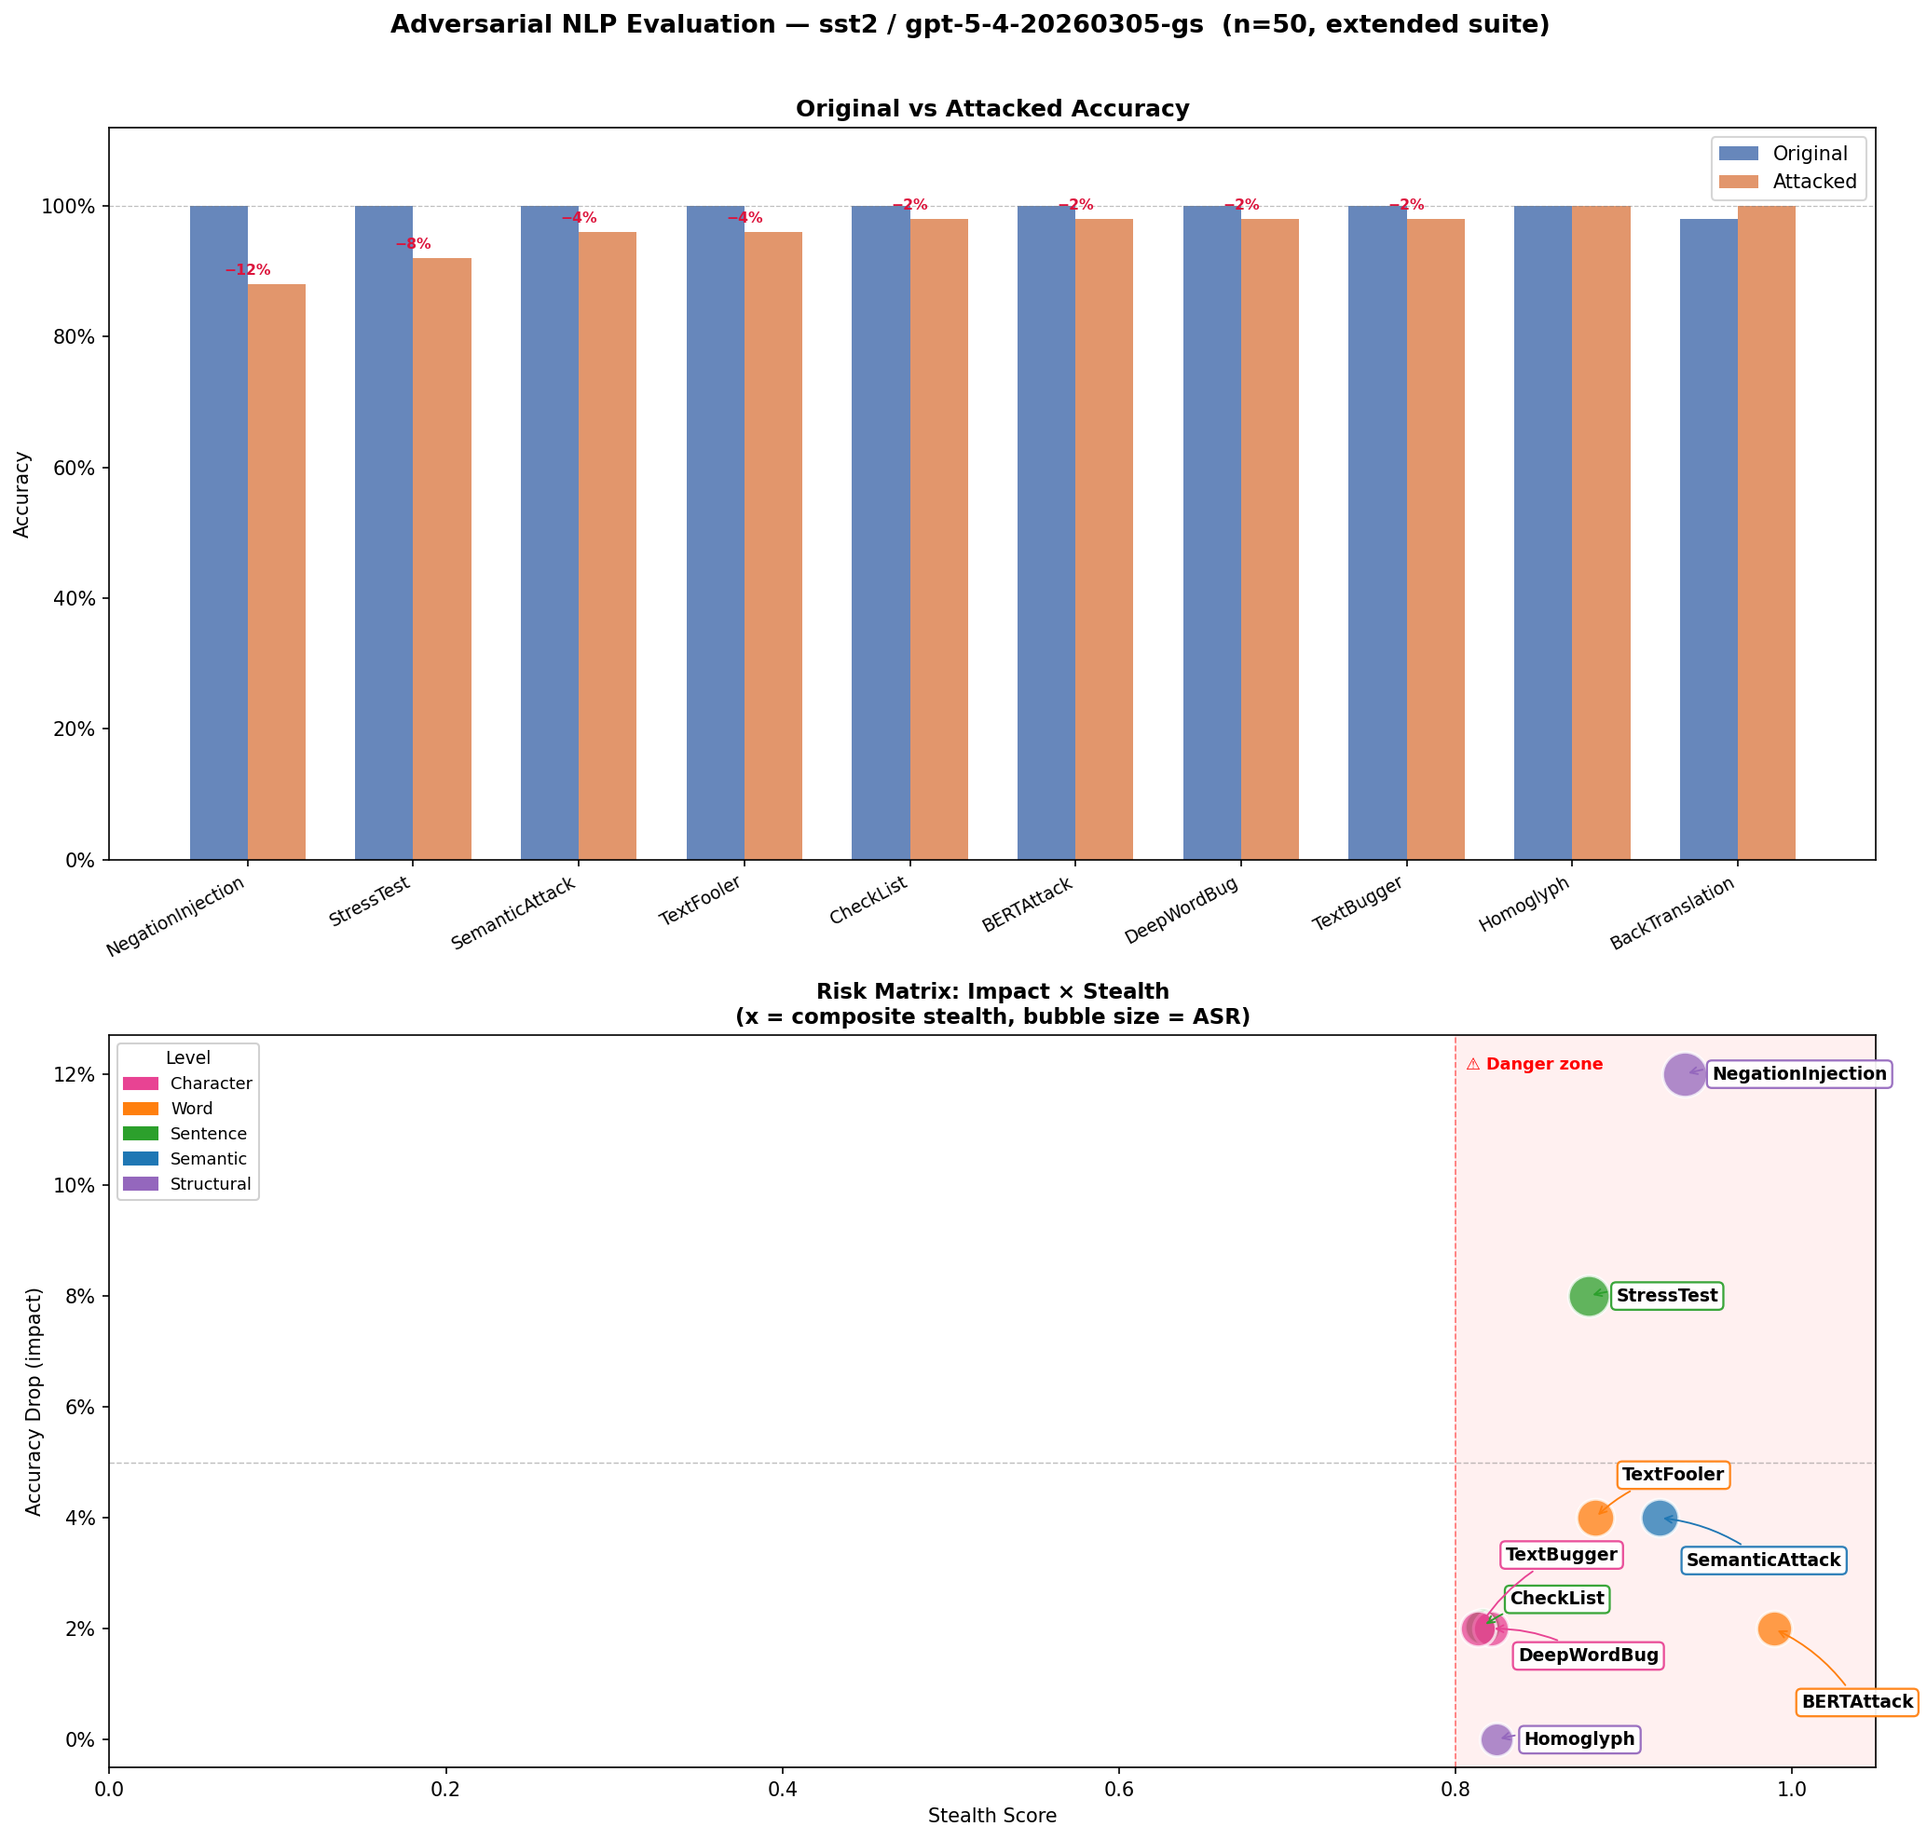
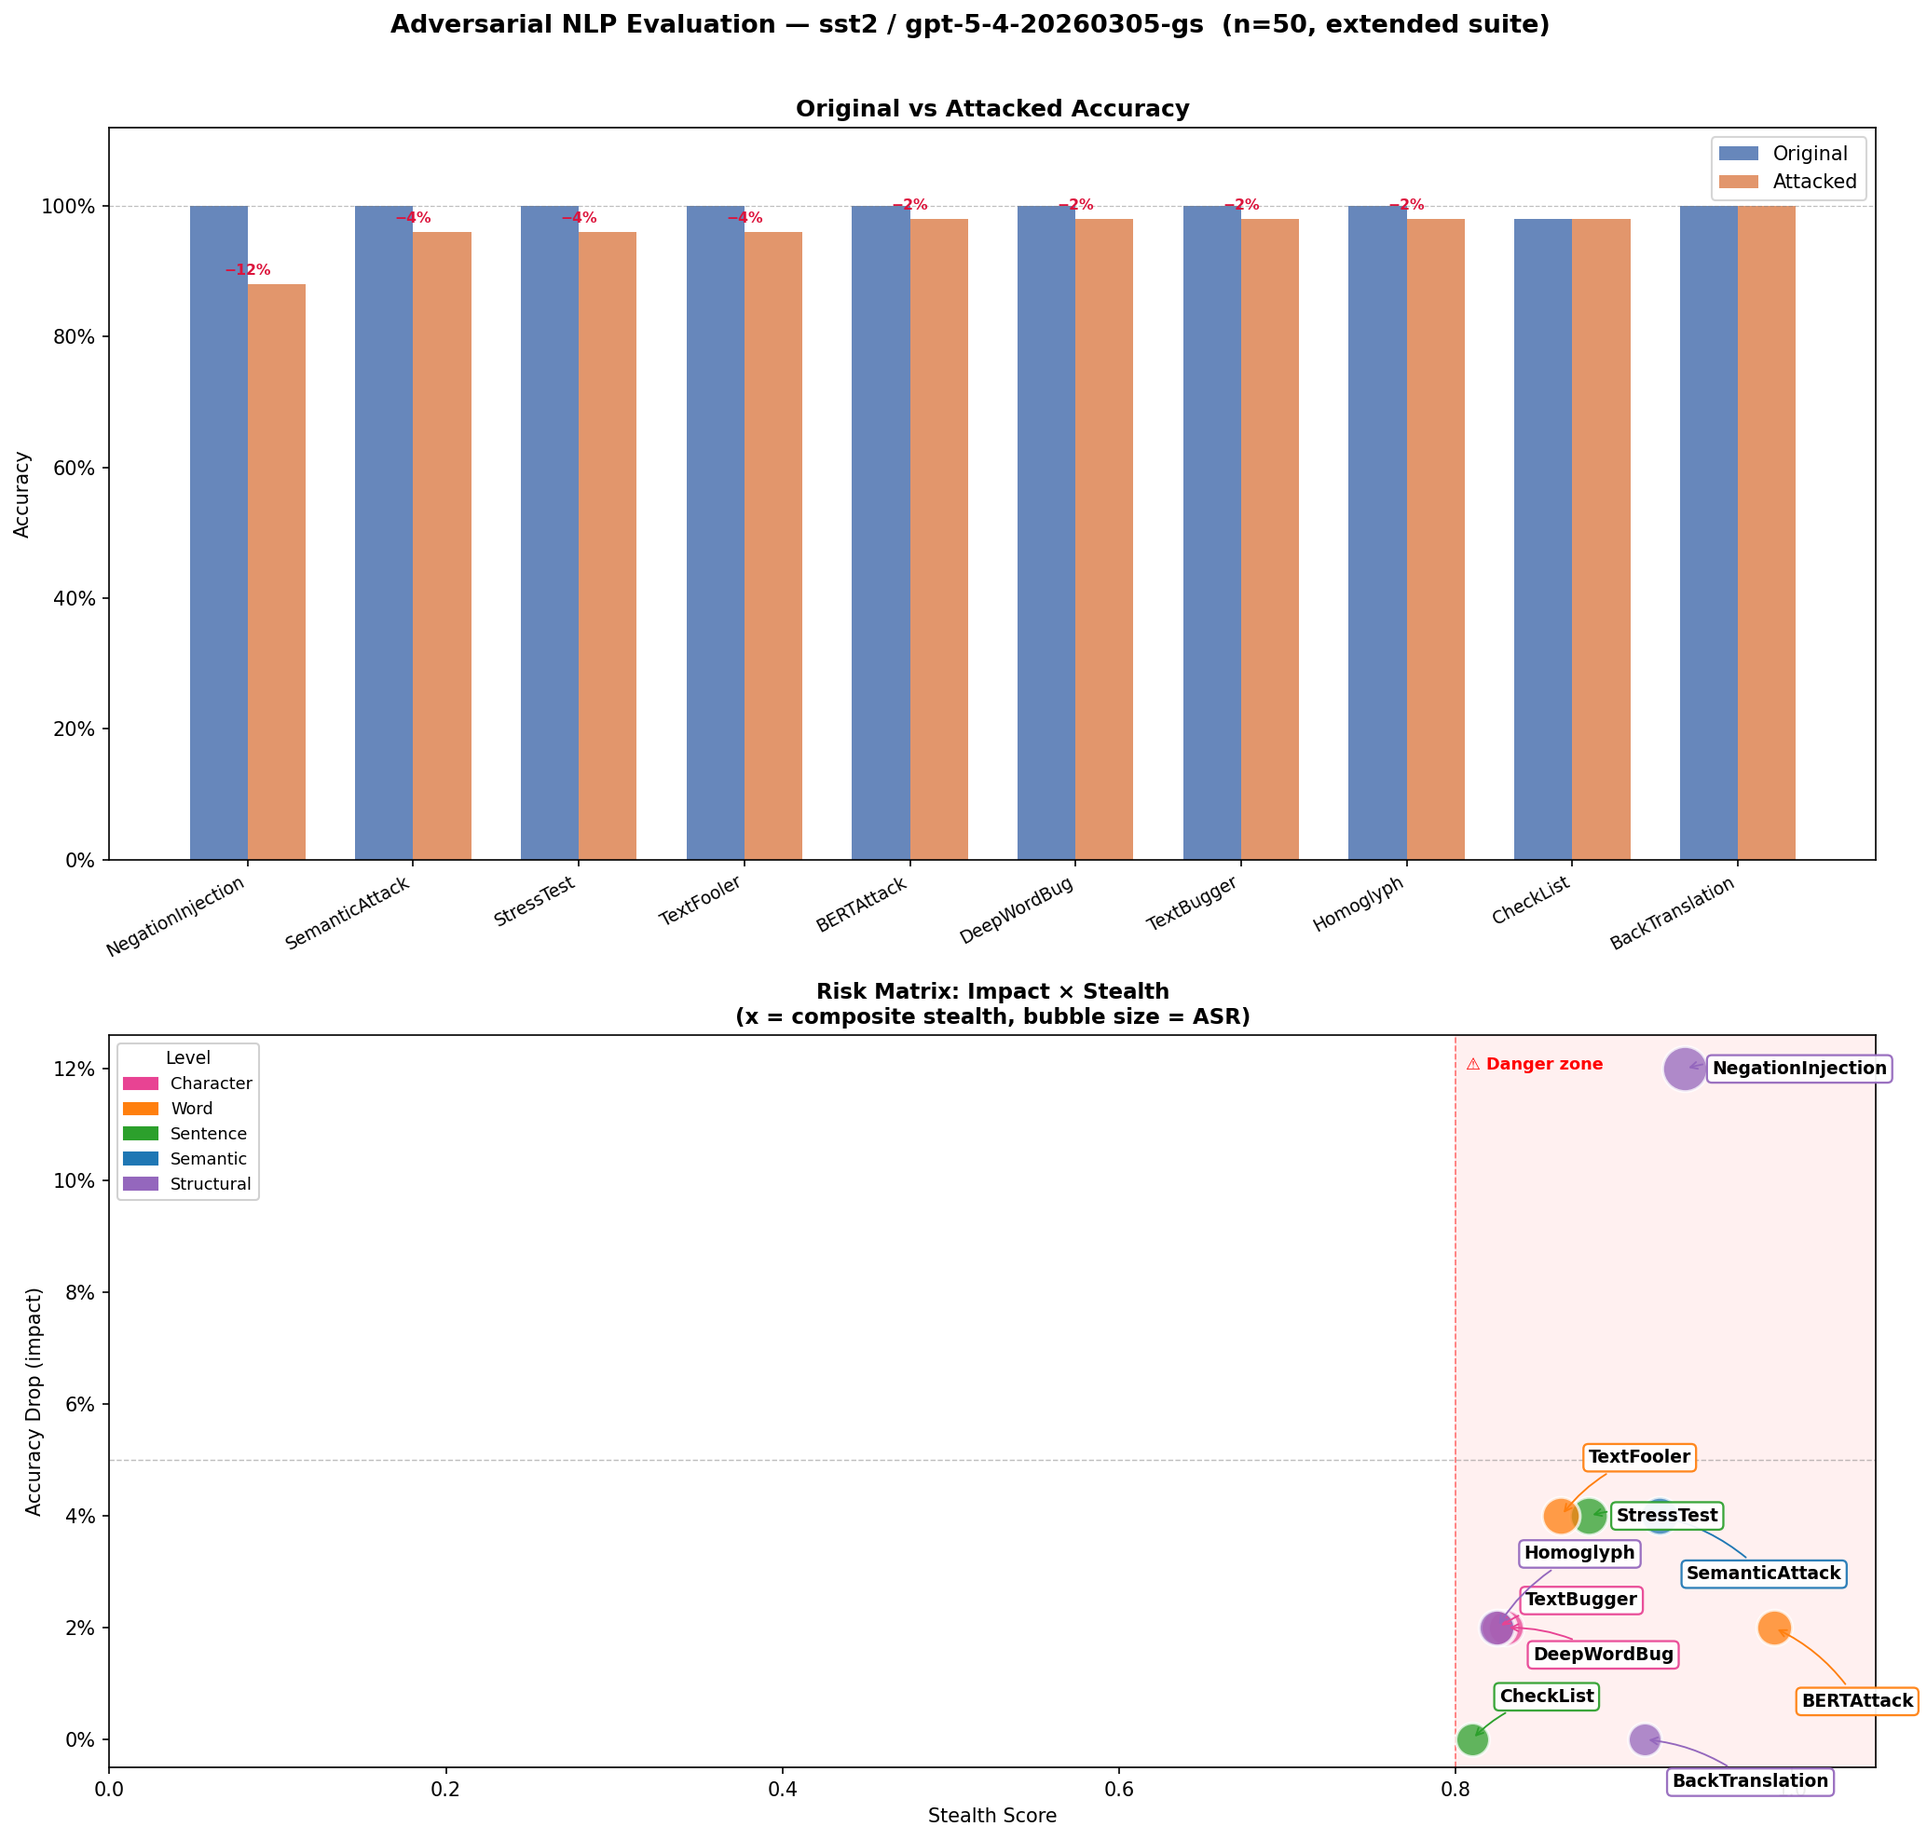
fix+improve: text_changed normalisation, heatmap tags, README refresh
evaluate/adversarial_eval.py
- Fix text_changed comparison: normalise whitespace (re.sub \s+ → single
  space + strip) before comparing original and attacked text.
  Previously a trailing space difference (BERTAttack stripping SST-2's
  trailing space) caused text_changed=True even with identical content,
  incorrectly keeping the case as HIGH priority instead of MEDIUM.

evaluate/regulatory.py
- Add _nist_tags(), _mitre_tags(), _owasp_tags(), _eu_tags() extractors
  that pull short regulatory references (§2.5, AML.T0043, LLM09, Art.15)
  from full citation strings.
- Rewrite render_regulatory_heatmap() cells to show structured tags
  instead of 38-char truncated prose — heatmap is now scannable at a
  glance. Better grid lines, proper row height, white-on-dark text for
  HIGH/MEDIUM rows, improved legend placement.

docs/images/nb01_risk_matrix.png
- Updated to latest run (StressTest 4%, Homoglyph 2%, CheckList 0%,
  BackTranslation 0%).

README.md
- Summary table updated to current run metrics.
- Key findings bullets refreshed: BERTAttack highest stealth (0.989),
  Homoglyph 1-flip on decision-boundary sentence, BackTranslation stable
  at 0%.

diff --git a/evaluate/regulatory.py b/evaluate/regulatory.py
@@ -428,20 +428,77 @@ def regulatory_report(
     return df
 
 
+# ── Short-tag extractors for the heatmap ─────────────────────────────────────
+
+def _nist_tags(text: str) -> str:
+    """Extract short NIST AI 600-1 category names from a full citation string."""
+    import re
+    tags = []
+    if re.search(r"Info(?:rmation)? Integrity|§2\.5", text, re.I):
+        tags.append("Info Integrity §2.5")
+    if re.search(r"Info(?:rmation)? Security|§2\.6", text, re.I):
+        tags.append("Info Security §2.6")
+    if re.search(r"Confabulation|§2\.3", text, re.I):
+        tags.append("Confabulation §2.3")
+    if re.search(r"Data (?:Privacy|Provenance)|§2\.1", text, re.I):
+        tags.append("Data Privacy §2.1")
+    if re.search(r"Harmful Bias|§2\.2", text, re.I):
+        tags.append("Harmful Bias §2.2")
+    if re.search(r"data (?:governance|quality)|Art\. 10", text, re.I):
+        tags.append("Data Governance")
+    return "\n".join(tags) if tags else text[:40]
+
+
+def _mitre_tags(text: str) -> str:
+    """Extract MITRE ATT&CK IDs from a full citation string."""
+    import re
+    ids = re.findall(r"AML\.T\d{4}", text)
+    seen: list[str] = []
+    for i in ids:
+        if i not in seen:
+            seen.append(i)
+    return "  ".join(seen) if seen else text[:30]
+
+
+def _owasp_tags(text: str) -> str:
+    """Extract OWASP LLM Top 10 IDs from a full citation string."""
+    import re
+    ids = re.findall(r"LLM\d{2}", text)
+    seen: list[str] = []
+    for i in ids:
+        if i not in seen:
+            seen.append(i)
+    return "  ".join(seen) if seen else text[:20]
+
+
+def _eu_tags(text: str) -> str:
+    """Extract EU AI Act article references from a full citation string."""
+    import re
+    arts = re.findall(r"Art\.\s*\d+(?:\s*§\d+)?", text)
+    seen: list[str] = []
+    for a in arts:
+        a = a.replace("  ", " ")
+        if a not in seen:
+            seen.append(a)
+    return "  ".join(seen) if seen else text[:30]
+
+
 # ── Regulatory heatmap ────────────────────────────────────────────────────────
 
 def render_regulatory_heatmap(
     reg_df: pd.DataFrame,
-    figsize: tuple = (13, None),
+    figsize: tuple = (14, None),
     save_path: str | None = None,
     dpi: int = 150,
 ):
     """
     Render a heatmap showing which regulatory frameworks each finding implicates.
 
-    Rows = findings (truncated); columns = NIST AI 600-1 / MITRE ATLAS /
+    Rows = findings; columns = NIST AI 600-1 / MITRE ATLAS /
     OWASP LLM Top 10 / EU AI Act.  Cell colour = severity (HIGH=red,
-    MEDIUM=orange, LOW=yellow, INFO=blue, — =light grey).
+    MEDIUM=orange, LOW=yellow, INFO=blue).  Cells show short regulatory
+    tags (§ references, ATT&CK IDs, article numbers) rather than truncated
+    prose, making the heatmap scannable at a glance.
 
     Parameters
     ----------
@@ -474,56 +531,82 @@ def render_regulatory_heatmap(
         "—":      "#E0E0E0",
     }
 
-    frameworks = ["nist_ai_600_1", "mitre_atlas", "owasp_llm", "eu_ai_act"]
-    labels     = ["NIST AI 600-1", "MITRE ATLAS", "OWASP LLM Top 10", "EU AI Act"]
+    frameworks  = ["nist_ai_600_1", "mitre_atlas", "owasp_llm", "eu_ai_act"]
+    col_headers = ["NIST AI 600-1", "MITRE ATLAS", "OWASP LLM\nTop 10", "EU AI Act"]
+    # Short-tag extractor per column
+    _tagfn = [_nist_tags, _mitre_tags, _owasp_tags, _eu_tags]
 
-    # Build row labels (attack name + severity badge)
+    # Build row labels — attack + metric snapshot
     rows = []
     for _, r in reg_df.iterrows():
         atk  = r.get("attacks", "?")
         sev  = r.get("severity", "—")
         drop = r.get("acc_drop", float("nan"))
-        drop_str = f" ({drop:+.0%})" if not (isinstance(drop, float) and np.isnan(drop)) else ""
-        rows.append(f"{atk}{drop_str}  [{sev}]")
+        asr  = r.get("asr",      float("nan"))
+        if isinstance(drop, float) and np.isnan(drop):
+            metric = ""
+        else:
+            metric = f"  Δacc {drop:+.0%}"
+            if not (isinstance(asr, float) and np.isnan(asr)) and asr > 0:
+                metric += f"  ASR {asr:.0%}"
+        rows.append(f"{atk}{metric}  [{sev}]")
 
-    n_rows = len(rows)
-    height = figsize[1] if figsize[1] else max(3, n_rows * 0.65 + 1.5)
+    n_rows  = len(rows)
+    row_h   = 0.90           # cell height in data units
+    col_w   = 1.0
+    height  = figsize[1] if figsize[1] else max(4, n_rows * row_h * 1.2 + 2.0)
     fig, ax = plt.subplots(figsize=(figsize[0], height))
 
-    for col_i, col in enumerate(frameworks):
+    for col_i, (col, tagfn) in enumerate(zip(frameworks, _tagfn)):
         for row_i, (_, r) in enumerate(reg_df.iterrows()):
             sev  = r.get("severity", "—")
-            text = r.get(col, "")
-            has_content = bool(text and str(text).strip() and str(text) != "—")
-            cell_color = _sev_color.get(sev, "#E0E0E0") if has_content else _sev_color["—"]
+            text = str(r.get(col, ""))
+            has_content = bool(text.strip() and text != "—" and text != "nan")
+            cell_color  = _sev_color.get(sev, "#E0E0E0") if has_content else "#F5F5F5"
+            text_color  = "white" if sev in ("HIGH", "MEDIUM") else "#222222"
 
+            y0 = n_rows - row_i - row_h
             rect = plt.Rectangle(
-                (col_i, n_rows - row_i - 1), 1, 1,
-                linewidth=0.5, edgecolor="white",
-                facecolor=cell_color, alpha=0.85,
+                (col_i * col_w + 0.05, y0),
+                col_w - 0.10, row_h - 0.05,
+                linewidth=0, edgecolor="none",
+                facecolor=cell_color, alpha=0.90, zorder=2,
             )
             ax.add_patch(rect)
 
-            # Abbreviated cell text
-            snippet = str(text)[:38] + "…" if len(str(text)) > 38 else str(text)
-            ax.text(
-                col_i + 0.5, n_rows - row_i - 0.5, snippet,
-                ha="center", va="center", fontsize=6.5,
-                wrap=True, color="white" if sev in ("HIGH", "MEDIUM") else "#333333",
-            )
+            # Extract short tags for this cell
+            tag_text = tagfn(text) if has_content else ""
+            if tag_text:
+                ax.text(
+                    col_i * col_w + col_w / 2,
+                    y0 + (row_h - 0.05) / 2,
+                    tag_text,
+                    ha="center", va="center",
+                    fontsize=7.5, fontweight="semibold",
+                    color=text_color, zorder=3,
+                    linespacing=1.4,
+                )
+
+    # Grid lines between rows
+    for i in range(n_rows + 1):
+        ax.axhline(n_rows - i, color="#CCCCCC", linewidth=0.4, zorder=1)
+    for j in range(len(frameworks) + 1):
+        ax.axvline(j * col_w, color="#CCCCCC", linewidth=0.4, zorder=1)
 
     # Axes formatting
-    ax.set_xlim(0, len(frameworks))
+    ax.set_xlim(0, len(frameworks) * col_w)
     ax.set_ylim(0, n_rows)
-    ax.set_xticks([i + 0.5 for i in range(len(frameworks))])
-    ax.set_xticklabels(labels, fontsize=9, fontweight="bold")
-    ax.set_yticks([n_rows - i - 0.5 for i in range(n_rows)])
-    ax.set_yticklabels(rows, fontsize=8)
-    ax.tick_params(axis="x", top=True, labeltop=True, bottom=False, labelbottom=False)
-    ax.tick_params(axis="y", left=True, right=False)
+    ax.set_xticks([i * col_w + col_w / 2 for i in range(len(frameworks))])
+    ax.set_xticklabels(col_headers, fontsize=10, fontweight="bold", linespacing=1.3)
+    ax.set_yticks([n_rows - i - row_h / 2 for i in range(n_rows)])
+    ax.set_yticklabels(rows, fontsize=8.5)
+    ax.tick_params(axis="x", top=True, labeltop=True, bottom=False, labelbottom=False,
+                   length=0, pad=6)
+    ax.tick_params(axis="y", left=True, right=False, length=0, pad=6)
+    ax.spines[:].set_visible(False)
     ax.set_title(
         "Regulatory Impact Heatmap — Findings from This Run",
-        fontsize=11, fontweight="bold", pad=14,
+        fontsize=12, fontweight="bold", pad=18,
     )
 
     legend_patches = [

diff --git a/evaluate/adversarial_eval.py b/evaluate/adversarial_eval.py
@@ -106,7 +106,13 @@ def run_all_attacks(
                 attacked = text
                 atk_pred = "error"
 
-            text_changed = (attacked != text)
+            # Normalise whitespace before comparing so that trailing-space
+            # differences (e.g. BERTAttack stripping a trailing space from
+            # SST-2's pre-tokenised text) are not counted as text changes.
+            def _norm(s: str) -> str:
+                import re
+                return re.sub(r"\s+", " ", s).strip()
+            text_changed = (_norm(attacked) != _norm(text))
 
             # ── semantic similarity (optional) ─────────────────────────────
             sem_sim: float | None = None

diff --git a/README.md b/README.md
@@ -122,21 +122,22 @@ Results from Notebook 01 — **10 adversarial attacks** evaluated on 50 SST-2 sa
 | Attack | Level | Orig Acc | Attacked Acc | Acc Drop | ASR | Stealth | Risk Score |
 |---|---|---|---|---|---|---|---|
 | **NegationInjection** | structural | 100% | 88% | +12% | 12% | 0.936 | 0.1123 |
-| **StressTest** | sentence | 100% | 92% | +8% | 8% | 0.879 | 0.0703 |
 | **SemanticAttack** | semantic | 100% | 96% | +4% | 4% | 0.921 | 0.0368 |
-| **TextFooler** | word | 100% | 96% | +4% | 4% | 0.883 | 0.0353 |
+| **StressTest** | sentence | 100% | 96% | +4% | 4% | 0.879 | 0.0352 |
+| **TextFooler** | word | 100% | 96% | +4% | 4% | 0.863 | 0.0345 |
 | **BERTAttack** | word | 100% | 98% | +2% | 2% | 0.989 | 0.0198 |
-| **CheckList** | sentence | 100% | 98% | +2% | 2% | 0.816 | 0.0167 |
-| **DeepWordBug** | character | 100% | 98% | +2% | 2% | 0.821 | 0.0164 |
-| **TextBugger** | character | 100% | 98% | +2% | 2% | 0.814 | 0.0163 |
-| **Homoglyph** | structural | 100% | 100% | +0% | 0% | 0.825 | 0.0000 |
-| **BackTranslation** | structural | 98% | 100% | −2% | 0% | 0.912 | −0.0183 |
+| **DeepWordBug** | character | 100% | 98% | +2% | 2% | 0.830 | 0.0166 |
+| **TextBugger** | character | 100% | 98% | +2% | 2% | 0.825 | 0.0165 |
+| **Homoglyph** | structural | 100% | 98% | +2% | 2% | 0.825 | 0.0165 |
+| **CheckList** | sentence | 98% | 98% | 0% | 0% | 0.810 | 0.0000 |
+| **BackTranslation** | structural | 100% | 100% | 0% | 0% | 0.913 | 0.0000 |
 
 **Key findings:**
-- 🔴 **NegationInjection** is the top threat: 12% accuracy drop at 0.936 stealth — semantic-preserving but logically inverted
-- 🟠 **Structural attacks dominate** the high-stealth cluster: all three structural attacks score stealth > 0.82
-- ✅ **Homoglyph** produces no flips at this sample size — frontier models are resilient to Unicode substitution
-- ℹ **BackTranslation** slightly *improves* accuracy (−2% drop) — MarianMT normalises SST-2's pre-tokenised text, incidentally cleaning noise
+- 🔴 **NegationInjection** is the top threat: 12% accuracy drop at 0.936 stealth — logically inverted text that reads naturally
+- 🟠 **Word- and semantic-level attacks cluster at 4%**: SemanticAttack, StressTest, TextFooler — all in the danger zone (stealth ≥ 0.86)
+- 🟡 **All remaining attacks land at 2%**, including Homoglyph — 1 flip on a known decision-boundary sentence ("we root for clara and paul")
+- ℹ **BackTranslation stays at 0%** — MT output is more fluent than noisy pre-tokenised source; acts as data cleaning, not adversarial attack
+- 📊 **BERTAttack highest stealth** (0.989) — contextual substitutions are near-invisible; perplexity ratio 1.016 ≈ indistinguishable from original
 
 ### Notable Findings & Interpretations
 
